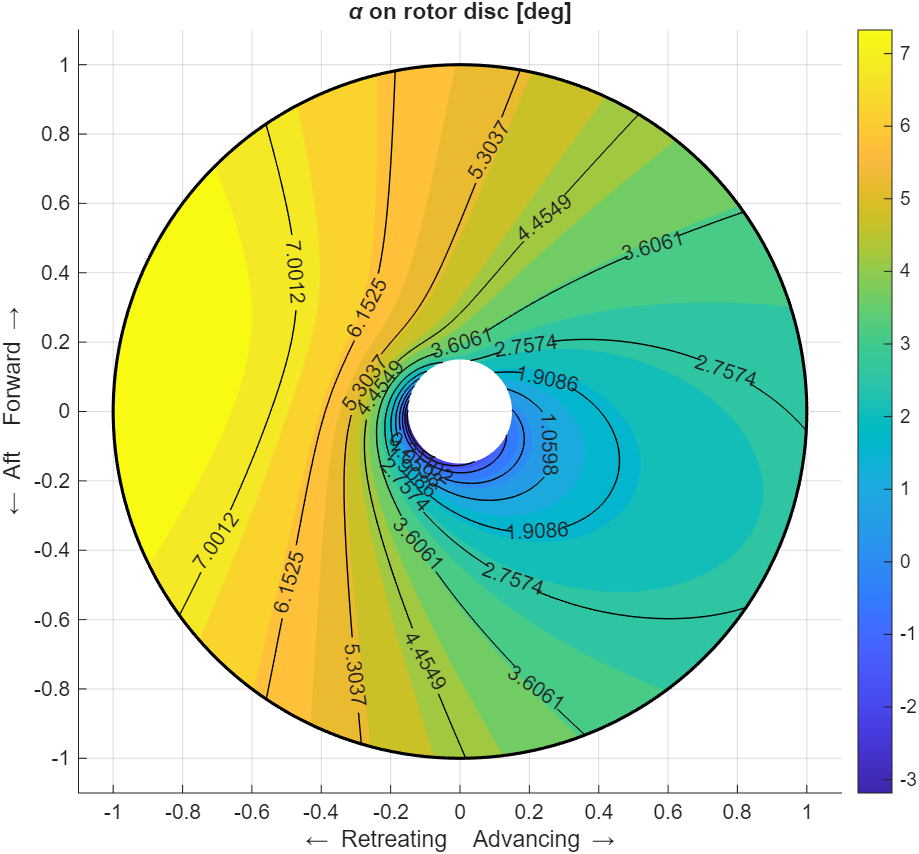
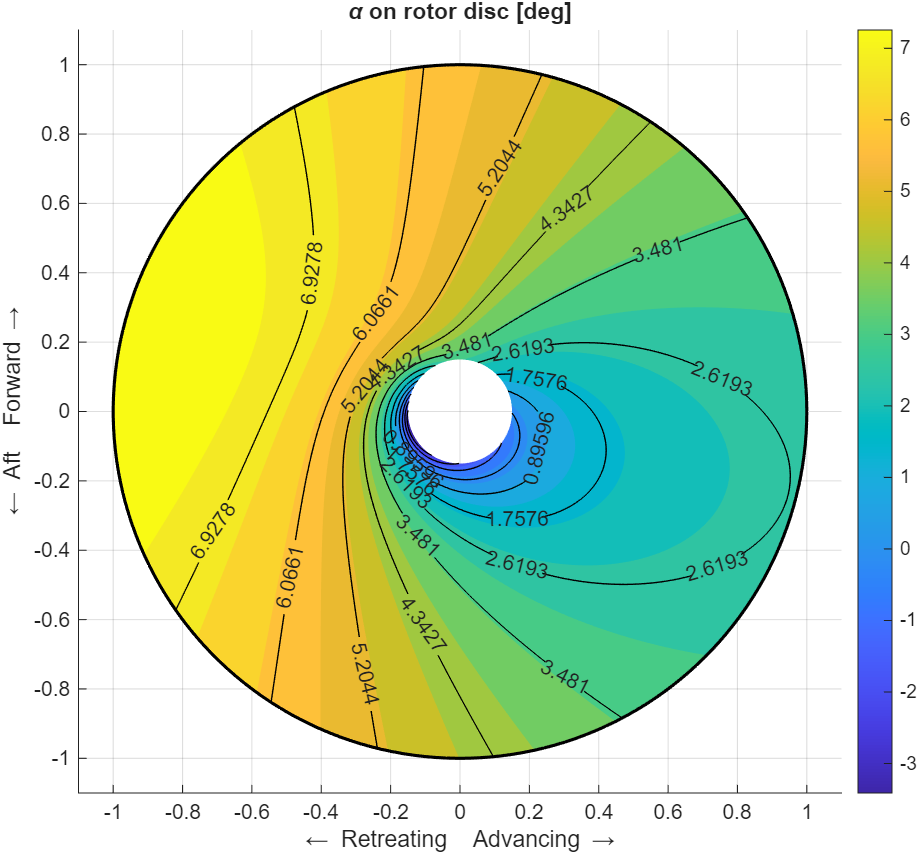
analytical version of Part 2

diff --git a/main.m b/main.m
@@ -137,35 +137,21 @@ uT_fn    = @(x, psi) x + mu*sin(psi);
 uP_fn    = @(x, psi, beta, bdot) lambda + x.*bdot + mu*beta.*cos(psi) ...
            + x.*(p_bar*sin(psi) - q_bar*cos(psi));
 
-Mbeta = @(psi, beta, bdot) (gamma_lock/2) * ( ...
-      theta_fn(psi)  .* (1/4 + (2*mu/3).*sin(psi) + (mu^2/2).*sin(psi).^2) ...
-    - lambda           * (1/3 + (mu/2).*sin(psi)) ...
-    - bdot            .* (1/4 + (mu/3).*sin(psi)) ...
-    - mu*beta.*cos(psi).* (1/3 + (mu/2).*sin(psi)) ...
-    - (p_bar*sin(psi) - q_bar*cos(psi)) .* (1/4 + (mu/3).*sin(psi)) );
-
-odefun = @(psi, y) [ y(2); ...
-                    -y(1) + Mbeta(psi, y(1), y(2)) ...
-                    + 2*(p_bar*cos(psi) + q_bar*sin(psi)) ];
-
-opts = odeset('RelTol', 1e-8, 'AbsTol', 1e-10);
-[psi_sim, y_sim] = ode45(odefun, [0, 20*pi], [0; 0], opts);
-
-mask     = psi_sim >= 18*pi;
-psi_rev  = psi_sim(mask) - 18*pi;
-beta_rev = y_sim(mask, 1);
-bdot_rev = y_sim(mask, 2);
-[psi_rev, idx] = unique(psi_rev);
-beta_rev = beta_rev(idx);
-bdot_rev = bdot_rev(idx);
+g = gamma_lock;
+M = [ 1,         0,              0;
+      0,         g*(2-mu^2)/16,  0;
+     -g*mu/6,    0,              g*(2+mu^2)/16 ];
+r = [ g*theta_0*(1+mu^2)/8 + g*mu*theta_1s/6 - g*lambda/6 - g*mu*p_bar/12;
+      g*mu*theta_0/3 + g*theta_1s*(2+3*mu^2)/16 - g*lambda*mu/4 - g*p_bar/8 + 2*q_bar;
+     -g*theta_1c*(2+mu^2)/16 - g*q_bar/8 - 2*p_bar ];
+coef = M \ r;
+a0 = coef(1);
+a1 = coef(2);
+b1 = coef(3);
 
 psi_plot  = linspace(0, 2*pi, 361)';
-beta_plot = interp1(psi_rev, beta_rev, psi_plot, 'pchip', 'extrap');
-bdot_plot = interp1(psi_rev, bdot_rev, psi_plot, 'pchip', 'extrap');
-
-a0 = mean(beta_plot);
-a1 = -2*mean(beta_plot .* cos(psi_plot));
-b1 = -2*mean(beta_plot .* sin(psi_plot));
+beta_plot = a0 - a1*cos(psi_plot) - b1*sin(psi_plot);
+bdot_plot = a1*sin(psi_plot) - b1*cos(psi_plot);
 
 perf.p2.a0 = rad2deg(a0);
 perf.p2.a1 = rad2deg(a1);
@@ -182,16 +168,14 @@ fprintf('Coning a0                = %.3f deg\n', rad2deg(a0));
 fprintf('Longitudinal tilt a1     = %.3f deg\n', rad2deg(a1));
 fprintf('Lateral tilt      b1     = %.3f deg\n', rad2deg(b1));
 
-figure; hold on;
+figure;
 plot(rad2deg(psi_plot), rad2deg(beta_plot), 'b-', 'LineWidth', 2);
-plot(rad2deg(psi_plot), rad2deg(a0 - a1*cos(psi_plot) - b1*sin(psi_plot)), 'r--', 'LineWidth', 1.5);
 xline(90,  'k:', 'advancing');
 xline(180, 'k:', 'front');
 xline(270, 'k:', 'retreating');
 xlabel('\psi (deg)'); ylabel('\beta (deg)');
 title(sprintf('Blade flapping  V=%g m/s, q=%g°/s, p=%g°/s', V2, heli.q, heli.p));
-legend('ODE solution', 'a_0 - a_1 cos\psi - b_1 sin\psi', 'Location', 'best');
-grid on; xlim([0 360]); hold off;
+grid on; xlim([0 360]);
 exportgraphics(gcf, PLOT_DIR + "P2_flapping_angle.png");
 
 x_075     = 0.75;
